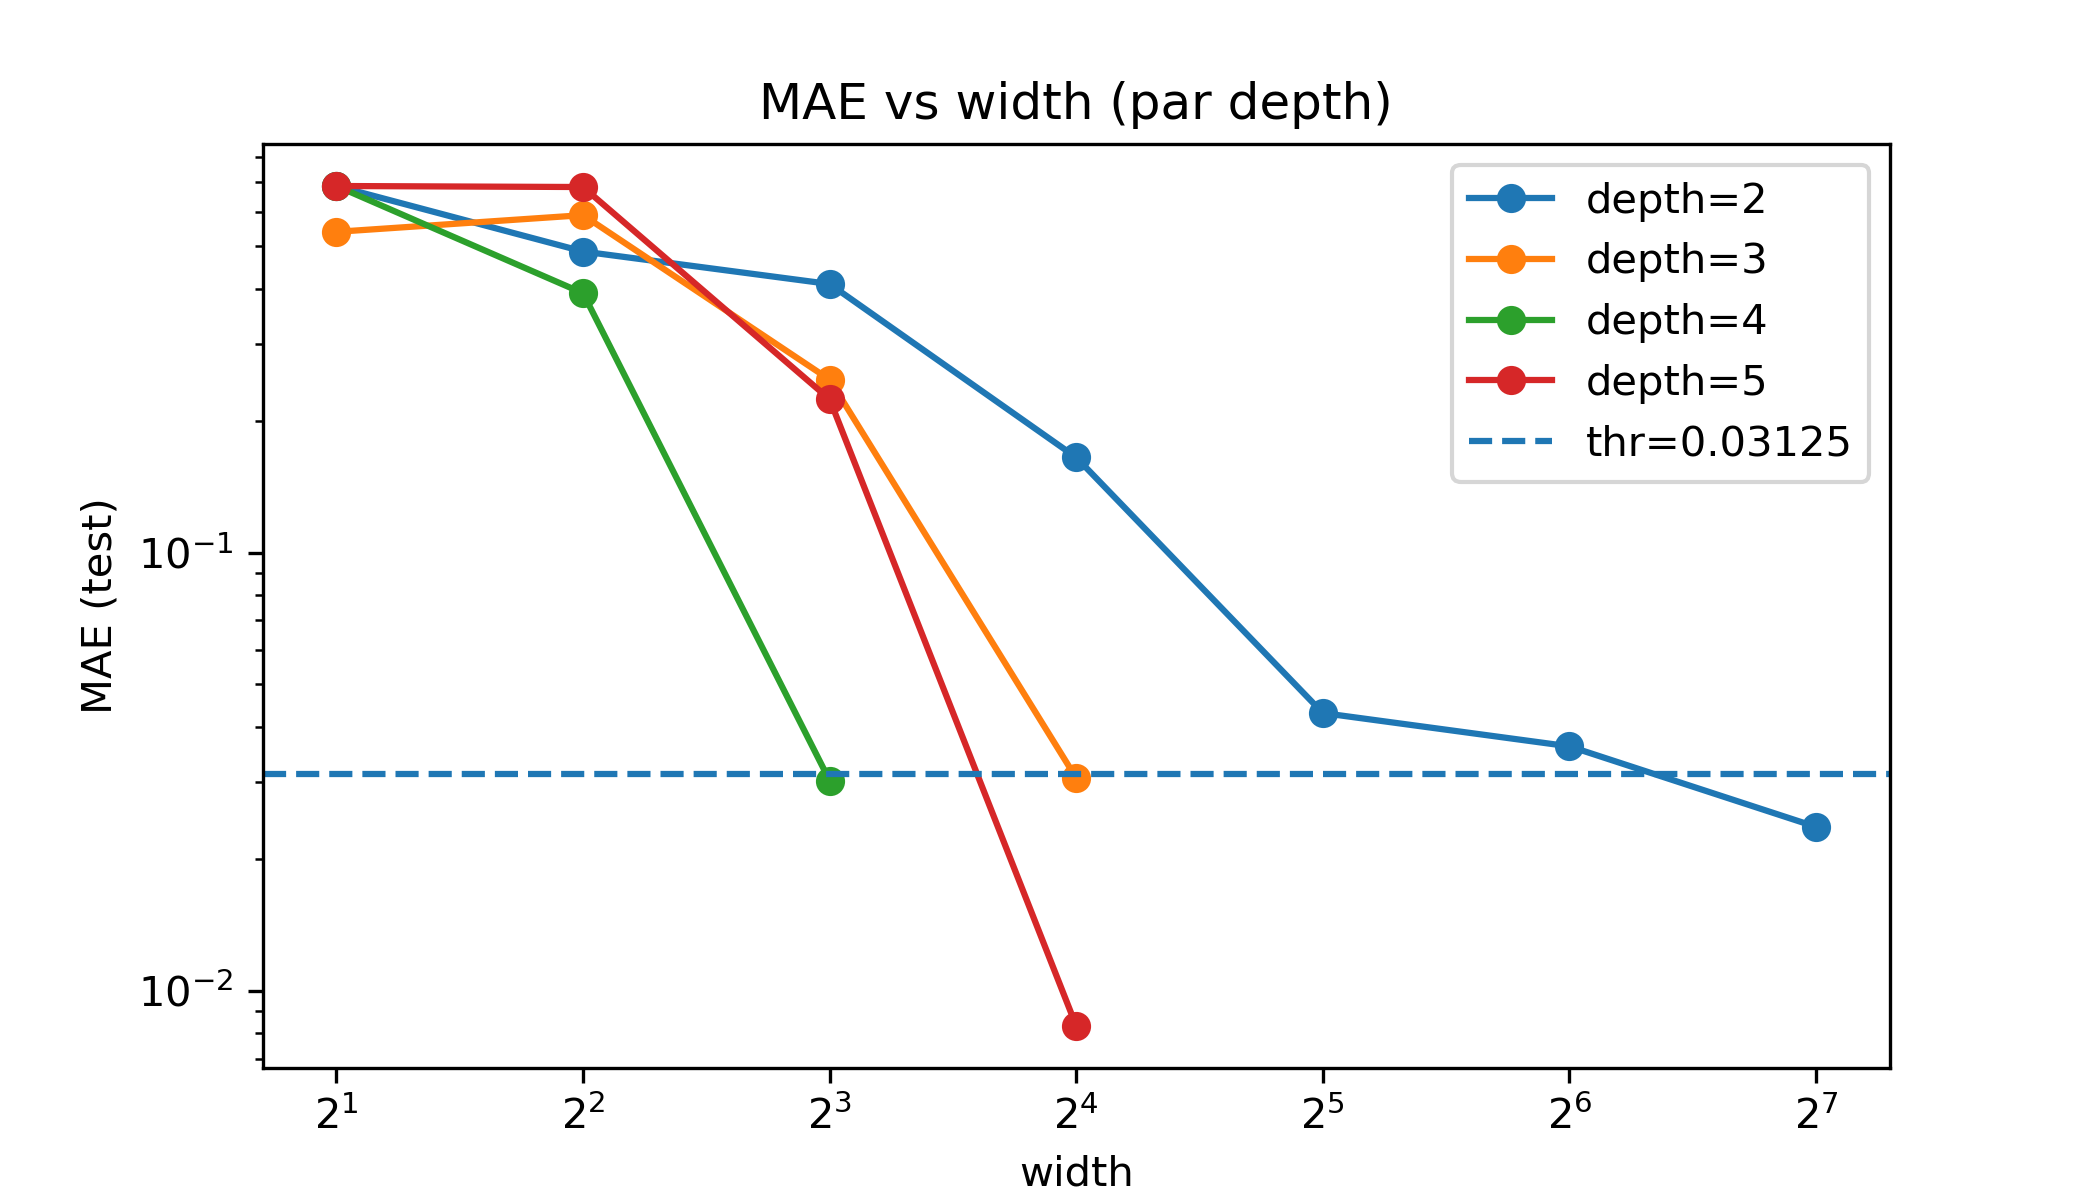
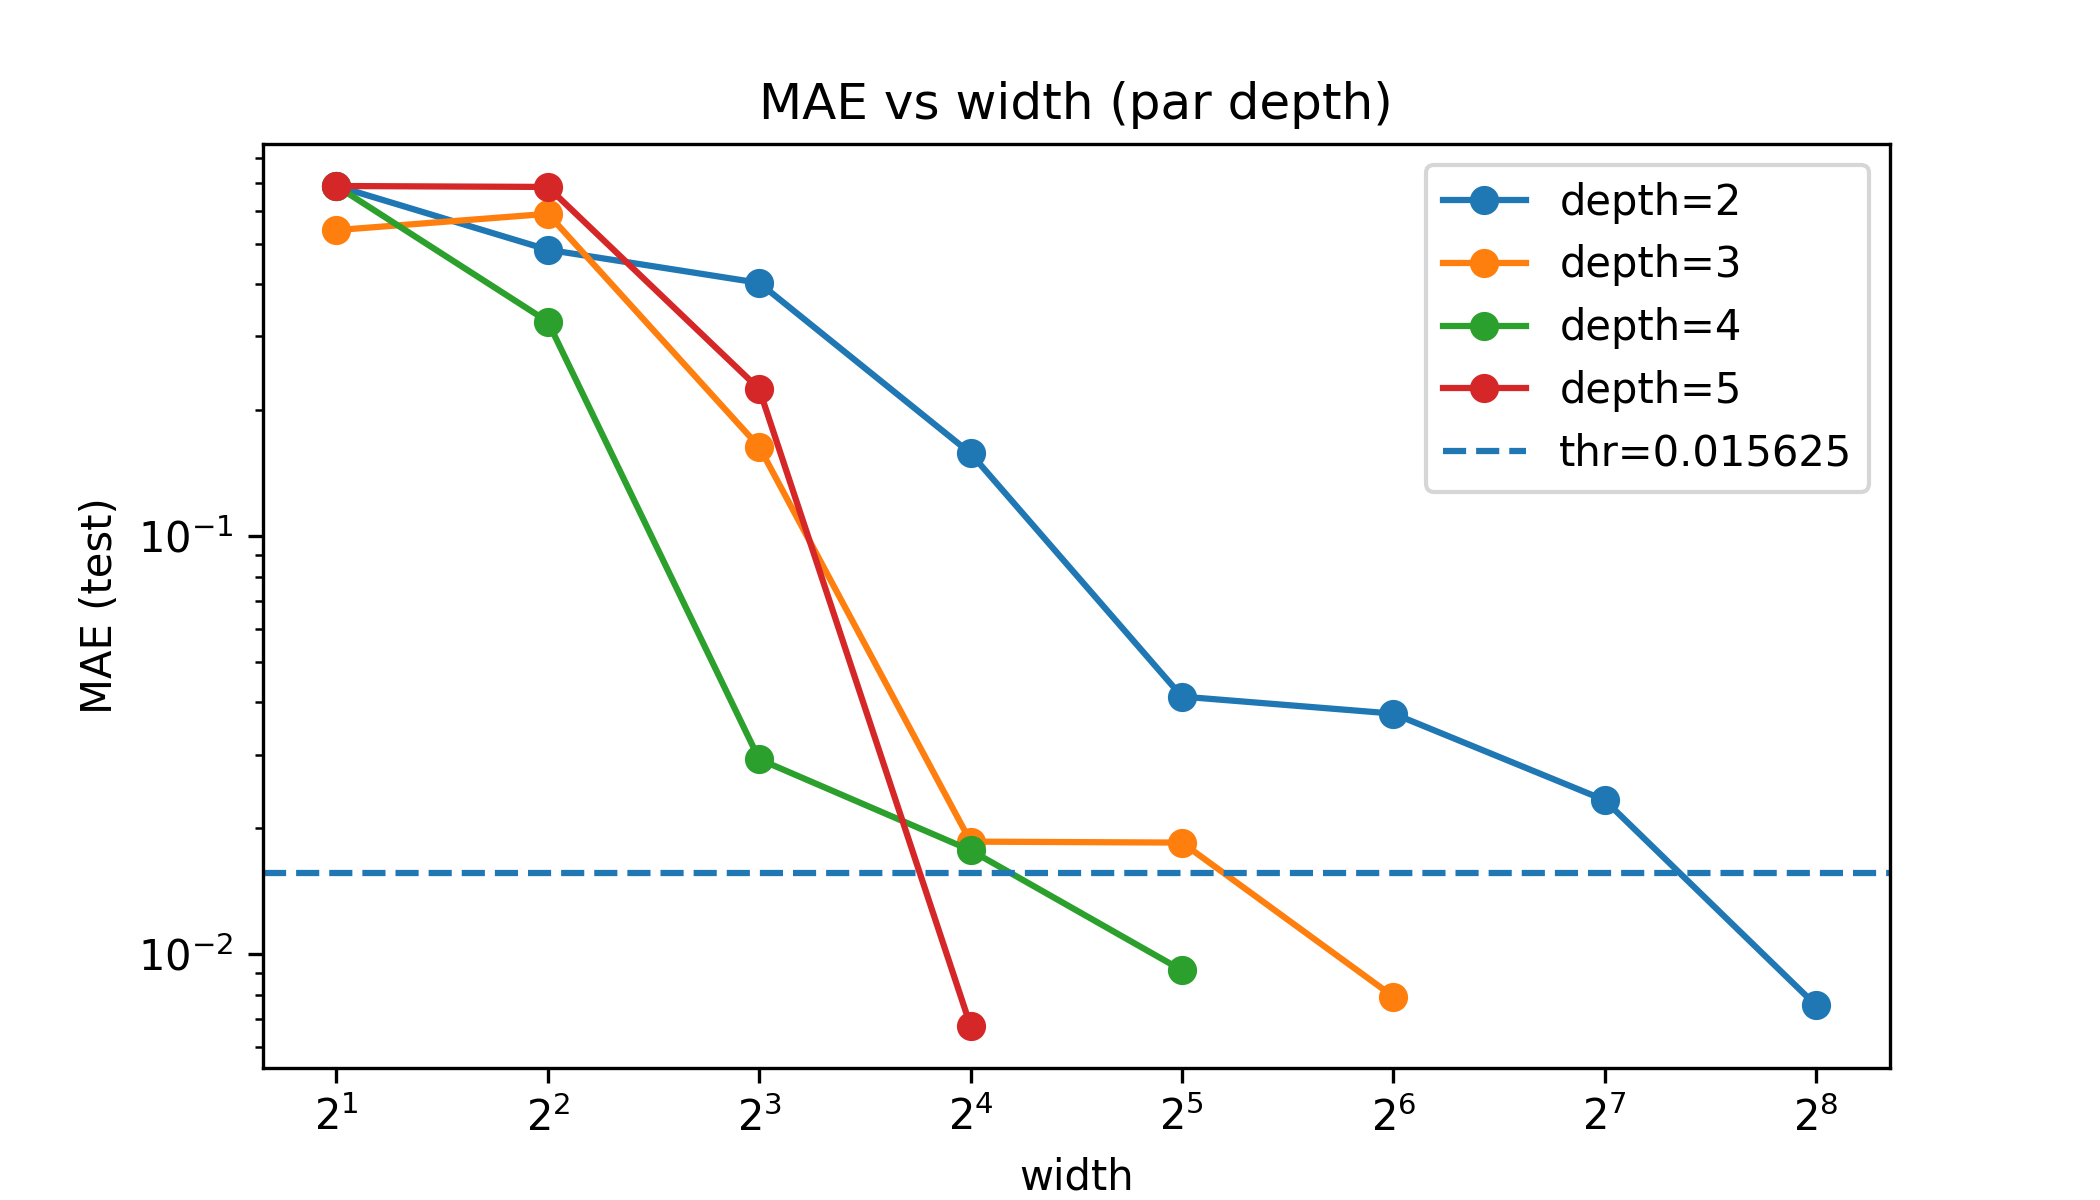
add all RESULTS after GOOGLE COLAB

diff --git a/README.md b/README.md
@@ -16,20 +16,27 @@ The repo focuses on two main ideas:
 
 ### Notebooks (3 experiments)
 
-- **`triangle_wave_approx.ipynb`**  
-  Approximates an oscillatory target built from the **triangle wave** function composed **L = 4** times (we use a practical, controllable depth). 
+- **trial_of_approximation_triangle_wave_with_theorical_results.ipynb`**  
+  Here, we wanted naively to reproduce the results of Theorem 1.1 with exactly the same hypotheses. We faced directly to the issue that it is unfeasible in pratice.
+
+- **`approximation_polynoms_and_trianglewave.ipynb`**  
+
+  We aim to approximate 2 oscillatory target function built from  a **degree-6 polynomial** and the **triangle wave** function composed **L = 4** times.
+
   We train 1D fully-connected **ReLU** networks with:
-  - depth `k` varying (e.g. `k = 1 … 6`)
+
+  - depth `k` varying (e.g. `k = 2 … 6`)
   - width `w` varying (e.g. `w = 2 … 256`)
   
   For each `(k, w)` we measure:
-  - **MAE** (as an L1 approximation proxy)
-  - parameter count / model size
-  - and identify an **empirical optimal width** `w*(k)` as the smallest width reaching a target error threshold `τ` (e.g. `τ = 1/32`).
 
-- **`approximation_polynoms.ipynb`**  
-  Same experimental protocol, but the target is a **degree-6 polynomial** (a smooth baseline).  
-  The goal is to compare how depth/width trade-offs behave on a non-oscillatory function and look for qualitative links between target complexity and the best depth/width regime.
+  - **MAE** (L1 approximation error)
+
+  - When for a depth = k and a width = w, the MAE error goes below the theorical threshold (1/64), we stop and report the width as the **optimal width** (w*(k)) for approximating our target function given a depth k.
+
+  - Then, with those different pair (k, w*(k)),, we compute the number of parameters and the number of total nodes of the network.
+
+  NOTE : In this notebook, we test for our 2 target functions : the polynomial function and the wave triangle function composed L = 4 times.
 
 - **`limitation_of_depth.ipynb`**  
   Simple classification experiment illustrating the limitation stated in Theorem 1.2:
@@ -41,8 +48,10 @@ The repo focuses on two main ideas:
 
 ## Results structure
 
-Each experiment writes its outputs to a dedicated folder under `results/` (plots + saved metrics).
+We did the experiments on GOOGLE COLAB using a GPU T4 for better results (by better, we mean getting closer to the theorical results). So we saved all the results in a dedicated folder : `Results/` (plots + saved metrics)
+But, of course, the code presented in this repo will give the exact same results. 
+
 
 ## Reference
 
-- Telgarsky, M. (2016). *Benefits of depth in neural networks.*
+- Telgarsky, M. (2016). **Benefits of depth in neural networks.**
